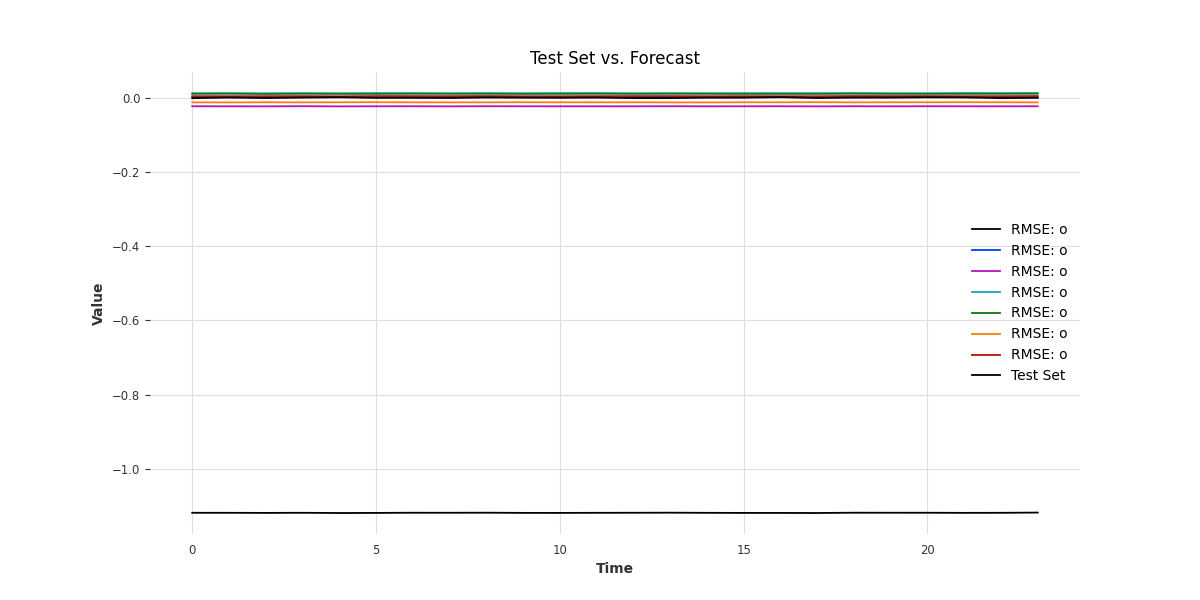
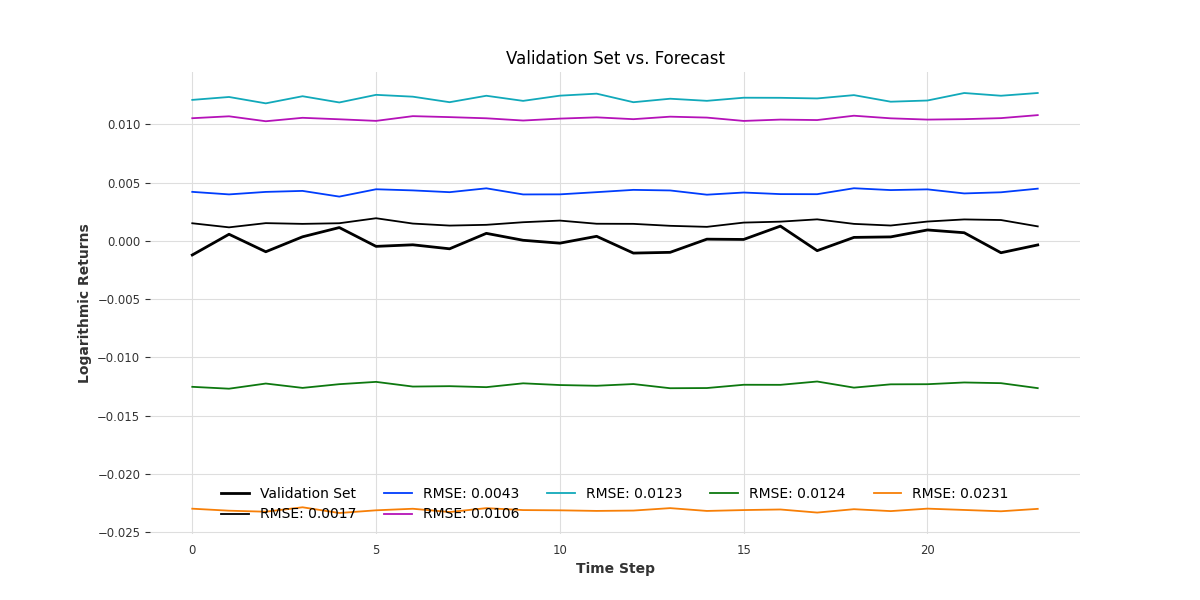
updates plots

diff --git a/src/hyperopt/analysis.py b/src/hyperopt/analysis.py
@@ -3,8 +3,10 @@ import glob
 import matplotlib.pyplot as plt
 import pandas as pd
 
+from train_test import timeframes
 
-def save_plot(save_loc: str):
+
+def save_plot(model_name: str, coin: str, time_frame: str, save: bool = True):
     """
     Create a plot of the forecast and save it to save_loc.
 
@@ -13,6 +15,8 @@ def save_plot(save_loc: str):
     save_loc : str
         The location to save the plot to.
     """
+
+    save_loc = f"hyperopt_results/{model_name}/{coin}/{time_frame}/"
 
     # Get all .csv files in save_loc
     csv_files = glob.glob(os.path.join(save_loc, "*.csv"))
@@ -27,31 +31,106 @@ def save_plot(save_loc: str):
 
         # If the file is a prediction file
         elif file.endswith("pred.csv"):
-            rmse = file.split("_")[0]
-            rmse = rmse[rmse.find("0.") :]
-            print(rmse)
-            predictions.append((pd.read_csv(file), rmse))
+            # The last part of the file name
+            rmse = file.split(time_frame)[-1]
+
+            # Remove the first character + "_pred.csv"
+            rmse = rmse[1:].split("_pred.csv")[0]
+
+            # Round to 4 decimal places
+            rmse = round(float(rmse), 4)
+
+            # Skip if rmse is too high
+            if rmse < 1:
+                predictions.append((pd.read_csv(file), rmse))
 
     # Plot the results
-    fig, ax = plt.subplots(figsize=(12, 6))
+    _, ax = plt.subplots(figsize=(12, 6))
+
+    # Plot the test set
+    val_data["log returns"].plot(
+        ax=ax,
+        label="Validation Set",
+        color="black",
+        zorder=5,
+        linewidth=2,
+    )
+
     # Loop over items in dict
     for df, rmse in predictions:
         df["log returns"].plot(ax=ax, label=f"RMSE: {rmse}")
     # plt.plot(val_data, label="Test Set")
-    val_data["log returns"].plot(ax=ax, label="Test Set")
-    plt.xlabel("Time")
-    plt.ylabel("Value")
-    plt.legend()
-    plt.title("Test Set vs. Forecast")
-    plt.savefig(f"{save_loc}/forecast.png")
+
+    # Create the legend
+    ax.legend(
+        loc="lower center",
+        ncol=5,
+    )
+
+    plt.xlabel("Time Step")
+    plt.ylabel("Logarithmic Returns")
+    plt.title("Validation Set vs. Forecast")
+    if save:
+        plt.savefig(f"{save_loc}/forecast.png")
+    else:
+        plt.show()
     plt.close()
+
+
+def best_hyperparameters(model_name, coin, time_frame):
+    # Read the results
+    save_loc = f"hyperopt_results/{model_name}/{coin}/{time_frame}/"
+
+    # Get the period0_results.csv
+    results = pd.read_csv(f"{save_loc}period0_results.csv")
+
+    # Only keep useful columns
+    results = results.drop(
+        [
+            "time_this_iter_s",
+            "done",
+            "training_iteration",
+            "date",
+            "timestamp",
+            "time_total_s",
+            "pid",
+            "hostname",
+            "node_ip",
+            "time_since_restore",
+            "iterations_since_restore",
+            "experiment_tag",
+            "config/output_chunk_length",
+            "config/model_name",
+            "config/pl_trainer_kwargs/enable_progress_bar",
+            "config/pl_trainer_kwargs/accelerator",
+        ],
+        axis=1,
+    )
+
+    # Rename columns starting with config/
+    results.rename(columns=lambda x: x.replace("config/", ""), inplace=True)
+
+    # Sort by rmse
+    results = results.sort_values(by=["rmse"])
+
+    print(results)
+
+    # Save the results
+    # results.to_csv(f"{save_loc}best_hyperparameters.csv", index=False)
+
+
+def create_plots(model_name):
+    for coin in ["BTC", "ETH"]:
+        for time_frame in timeframes:
+            save_plot(model_name, coin, time_frame)
 
 
 if __name__ == "__main__":
     model_name = "NBEATS"
-    coin = "BTC"
+    coin = "ETH"
     time_frame = "1d"
 
-    save_loc = f"hyperopt_results/{model_name}/{coin}/{time_frame}/"
+    create_plots(model_name)
 
-    save_plot(save_loc)
+    # best_hyperparameters(model_name, coin, time_frame)
+    # save_plot(model_name, coin, time_frame, save=False)
